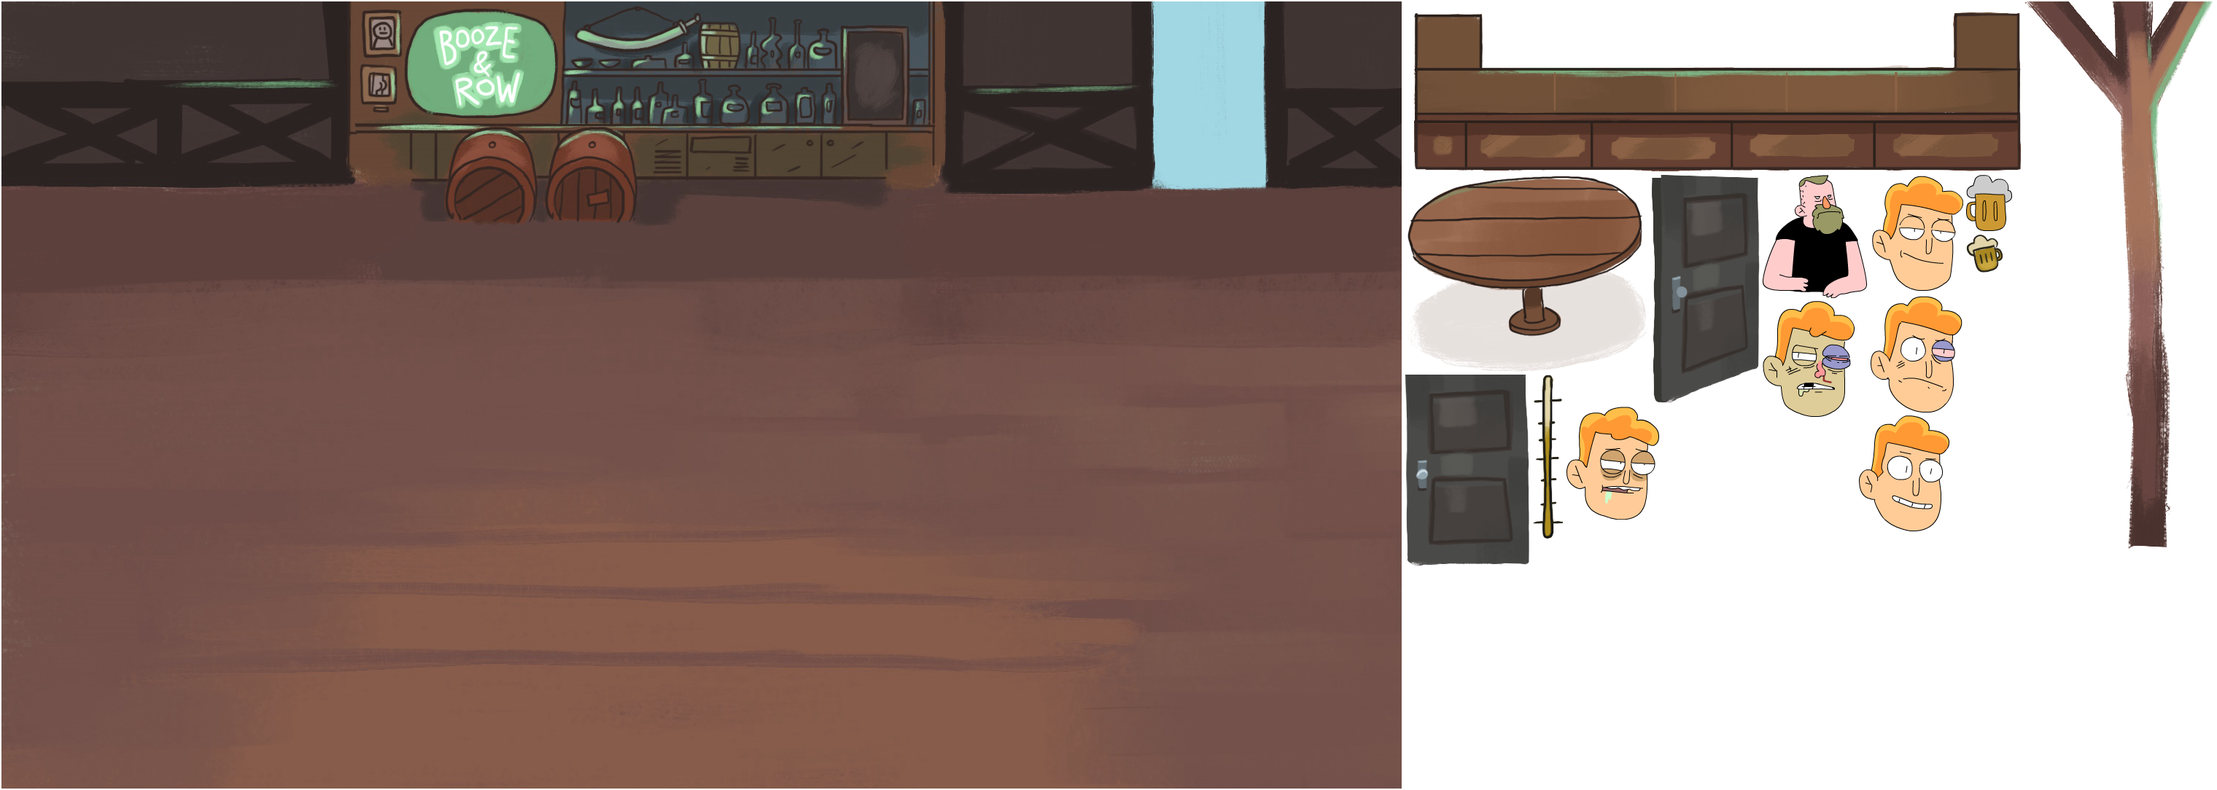
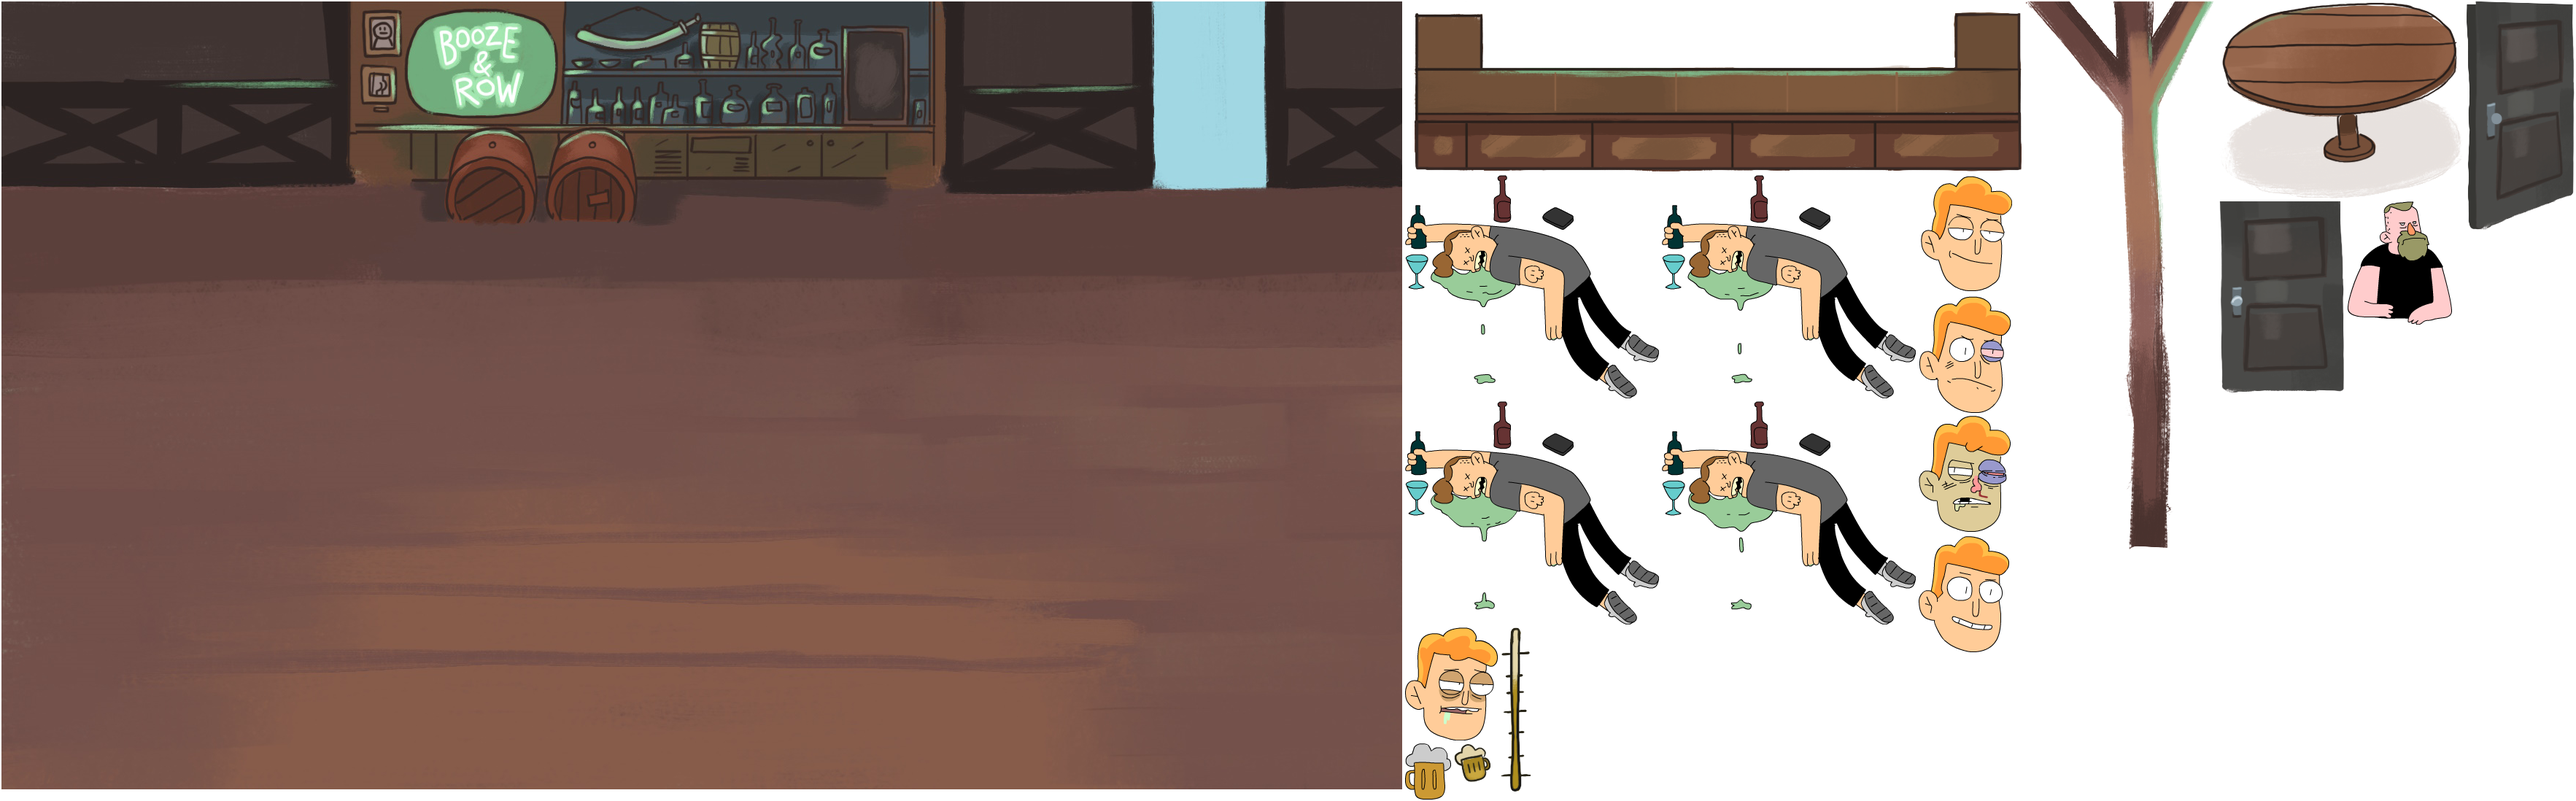
MVP

diff --git a/src/scenes/Level.ts b/src/scenes/Level.ts
@@ -14,6 +14,7 @@ import config from '../config';
 import { EVENTS } from '../enums';
 import Door from '../components/Door';
 import Barman from '../components/Barman';
+import Customer from '../components/Customer';
 
 export default class Level extends Scene {
 	private player!: Player;
@@ -141,10 +142,16 @@ export default class Level extends Scene {
 		const layer = <LDtkLayer>res.map.getLevelLayersByName(0, 'Entities')[0];
 		const tables = (layer?.entityInstances || []).filter(ent => ent.__identifier === 'Table');
 
-		for (let tableConfig of tables) {
+		for (let [index, tableConfig] of tables.entries()) {
 			const { __worldX, __worldY } = tableConfig;
 
-			const table = new Table({
+			let TableClass = Table;
+
+			if (index === 0) {
+				TableClass = Customer;
+			}
+
+			const table = new TableClass({
 				pos: vec(__worldX, __worldY),
 			});
 

diff --git a/src/components/Customer.ts b/src/components/Customer.ts
@@ -1,0 +1,30 @@
+import { Animation, Sprite, vec } from 'excalibur';
+import res from '../res';
+import Table from './Table';
+import SpriteSheetAnimation from '../partials/spritesheet-animation';
+
+export default class Customer extends Table {
+	protected addGraphics() {
+		this.graphics.layers
+			.create({
+				name: 'main',
+				order: 0,
+				offset: vec(-10, 0),
+			})
+			.use(<Sprite>res.assets.getFrameSprite('graphics/table'));
+
+		const animations = new SpriteSheetAnimation([res.assets]);
+
+		const anim = <Animation>animations.getAnimation('graphics/customer');
+
+		this.graphics.layers
+			.create({
+				name: 'add',
+				order: 0,
+				offset: vec(75, 0),
+			})
+			.use(anim);
+
+		anim.play();
+	}
+}

diff --git a/src/components/Table.ts b/src/components/Table.ts
@@ -17,7 +17,7 @@ export default class Table extends Actor {
 		this.addGraphics();
 	}
 
-	private addGraphics() {
+	protected addGraphics() {
 		this.graphics.use(<Sprite>res.assets.getFrameSprite('graphics/table'), {
 			offset: vec(-10, 0),
 		});
